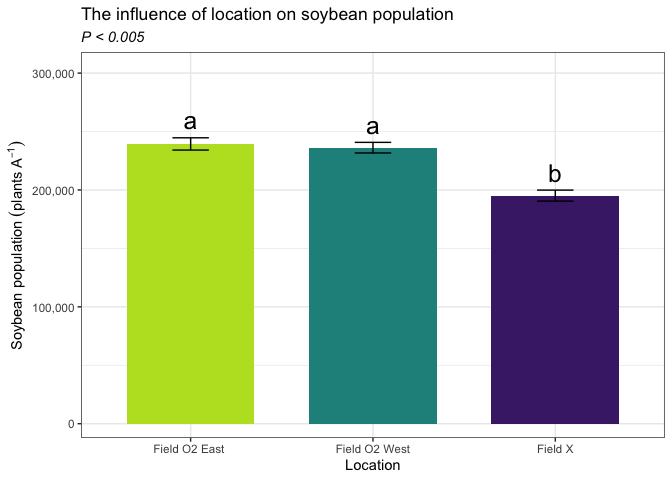
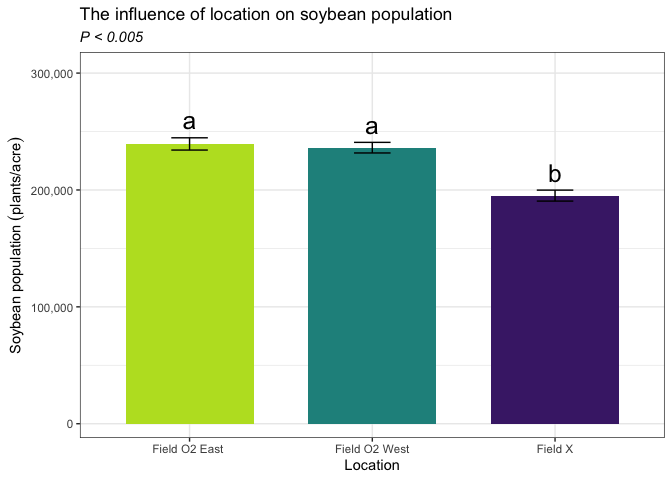
changed to plants/acre

diff --git a/rmarkdowns/bean_population.md b/rmarkdowns/bean_population.md
@@ -51,14 +51,14 @@ combined_raw <- read_excel("~/Github/Mowtivation/raw-data/All Treatments/combine
 kable(head(combined_raw))
 ```
 
-| id | location | year | treatment | block | plot | bean_emergence | bean_biomass | intrarow_weed_biomass | interrow_weed_biomass | weed_biomass | bean_population | bean_yield |
-|:---|:---|---:|:---|---:|---:|---:|---:|---:|---:|---:|:---|:---|
-| CU_B1_P101 | field x | 2023 | TIM | 1 | 101 | 46.5 | 223.740 | 19.000 | 44.490 | 63.490 | 34.5 | 417.21 |
-| CU_B1_P102 | field x | 2023 | TIC | 1 | 102 | 42.5 | 267.460 | 30.975 | 0.720 | 31.695 | 39.5 | 565.54 |
-| CU_B1_P103 | field x | 2023 | RIM | 1 | 103 | 36.5 | 217.890 | 0.950 | 6.890 | 3.920 | 37.5 | 449.93 |
-| CU_B1_P104 | field x | 2023 | RNO | 1 | 104 | 41.0 | 207.675 | 0.660 | 45.735 | 46.395 | 35 | 412.59 |
-| CU_B1_P105 | field x | 2023 | RIC | 1 | 105 | 41.0 | 230.285 | 0.495 | 22.025 | 22.520 | 39 | 473.79 |
-| CU_B1_P201 | field x | 2023 | RIC | 2 | 201 | 36.5 | 208.105 | 6.395 | 19.460 | 25.855 | 33.5 | 484.04 |
+| id | location | year | treatment | block | plot | bean_emergence | bean_biomass | intrarow_weed_biomass | interrow_weed_biomass | weed_biomass | bean_population | bean_yield | seed_weight |
+|:---|:---|---:|:---|---:|---:|---:|---:|---:|---:|---:|:---|:---|:---|
+| CU_B1_P101 | field x | 2023 | TIM | 1 | 101 | 46.5 | 223.740 | 19.000 | 44.490 | 63.490 | 34.5 | 417.21 | 17.119999999999997 |
+| CU_B1_P102 | field x | 2023 | TIC | 1 | 102 | 42.5 | 267.460 | 30.975 | 0.720 | 31.695 | 39.5 | 565.54 | 17.475000000000001 |
+| CU_B1_P103 | field x | 2023 | RIM | 1 | 103 | 36.5 | 217.890 | 0.950 | 6.890 | 3.920 | 37.5 | 449.93 | 16.752499999999998 |
+| CU_B1_P104 | field x | 2023 | RNO | 1 | 104 | 41.0 | 207.675 | 0.660 | 45.735 | 46.395 | 35 | 412.59 | 16.145 |
+| CU_B1_P105 | field x | 2023 | RIC | 1 | 105 | 41.0 | 230.285 | 0.495 | 22.025 | 22.520 | 39 | 473.79 | 17.047499999999999 |
+| CU_B1_P201 | field x | 2023 | RIC | 2 | 201 | 36.5 | 208.105 | 6.395 | 19.460 | 25.855 | 33.5 | 484.04 | 17.149999999999999 |
 
 <br>
 
@@ -89,14 +89,14 @@ bean_population_clean <-clean_combined |>
 kable(head(bean_population_clean)) 
 ```
 
-| id | location | year | weed_control | block | plot | bean_emergence | bean_biomass | intrarow_weed_biomass | interrow_weed_biomass | weed_biomass | bean_population | bean_yield | bean_population_two_meter | bean_population_acre |
-|:---|:---|:---|:---|:---|:---|---:|---:|---:|---:|---:|---:|:---|---:|---:|
-| CU_B1_P101 | field x | 2023 | TIM | 1 | 101 | 46.5 | 223.740 | 19.000 | 44.490 | 63.490 | 34.5 | 417.21 | 69 | 183227.8 |
-| CU_B1_P102 | field x | 2023 | TIC | 1 | 102 | 42.5 | 267.460 | 30.975 | 0.720 | 31.695 | 39.5 | 565.54 | 79 | 209782.6 |
-| CU_B1_P103 | field x | 2023 | RIM | 1 | 103 | 36.5 | 217.890 | 0.950 | 6.890 | 3.920 | 37.5 | 449.93 | 75 | 199160.7 |
-| CU_B1_P104 | field x | 2023 | RNO | 1 | 104 | 41.0 | 207.675 | 0.660 | 45.735 | 46.395 | 35.0 | 412.59 | 70 | 185883.3 |
-| CU_B1_P105 | field x | 2023 | RIC | 1 | 105 | 41.0 | 230.285 | 0.495 | 22.025 | 22.520 | 39.0 | 473.79 | 78 | 207127.1 |
-| CU_B1_P201 | field x | 2023 | RIC | 2 | 201 | 36.5 | 208.105 | 6.395 | 19.460 | 25.855 | 33.5 | 484.04 | 67 | 177916.9 |
+| id | location | year | weed_control | block | plot | bean_emergence | bean_biomass | intrarow_weed_biomass | interrow_weed_biomass | weed_biomass | bean_population | bean_yield | seed_weight | bean_population_two_meter | bean_population_acre |
+|:---|:---|:---|:---|:---|:---|---:|---:|---:|---:|---:|---:|:---|:---|---:|---:|
+| CU_B1_P101 | field x | 2023 | TIM | 1 | 101 | 46.5 | 223.740 | 19.000 | 44.490 | 63.490 | 34.5 | 417.21 | 17.119999999999997 | 69 | 183227.8 |
+| CU_B1_P102 | field x | 2023 | TIC | 1 | 102 | 42.5 | 267.460 | 30.975 | 0.720 | 31.695 | 39.5 | 565.54 | 17.475000000000001 | 79 | 209782.6 |
+| CU_B1_P103 | field x | 2023 | RIM | 1 | 103 | 36.5 | 217.890 | 0.950 | 6.890 | 3.920 | 37.5 | 449.93 | 16.752499999999998 | 75 | 199160.7 |
+| CU_B1_P104 | field x | 2023 | RNO | 1 | 104 | 41.0 | 207.675 | 0.660 | 45.735 | 46.395 | 35.0 | 412.59 | 16.145 | 70 | 185883.3 |
+| CU_B1_P105 | field x | 2023 | RIC | 1 | 105 | 41.0 | 230.285 | 0.495 | 22.025 | 22.520 | 39.0 | 473.79 | 17.047499999999999 | 78 | 207127.1 |
+| CU_B1_P201 | field x | 2023 | RIC | 2 | 201 | 36.5 | 208.105 | 6.395 | 19.460 | 25.855 | 33.5 | 484.04 | 17.149999999999999 | 67 | 177916.9 |
 
 # Model testing
 
@@ -210,7 +210,7 @@ bean_population_clean |>
   
   labs(
     x = "Location",
-    y = expression("Soybean population" ~ (plants ~ A^{-1})),
+    y = expression("Soybean population" ~ (plants * "/" * acre)),
     title = str_c("The influence of location on soybean population"),
     subtitle = expression(italic("P < 0.005"))) +
    scale_x_discrete(labels = c("Field O2 East ",
@@ -229,5 +229,5 @@ bean_population_clean |>
 ![](bean_population_files/figure-gfm/unnamed-chunk-9-1.png)<!-- -->
 
 ``` r
-ggsave("bean_population_location_Ac.png", width = 8, height = 6, dpi = 300)
+ggsave("bean_population_location_acre.png", width = 8, height = 6, dpi = 300)
 ```
